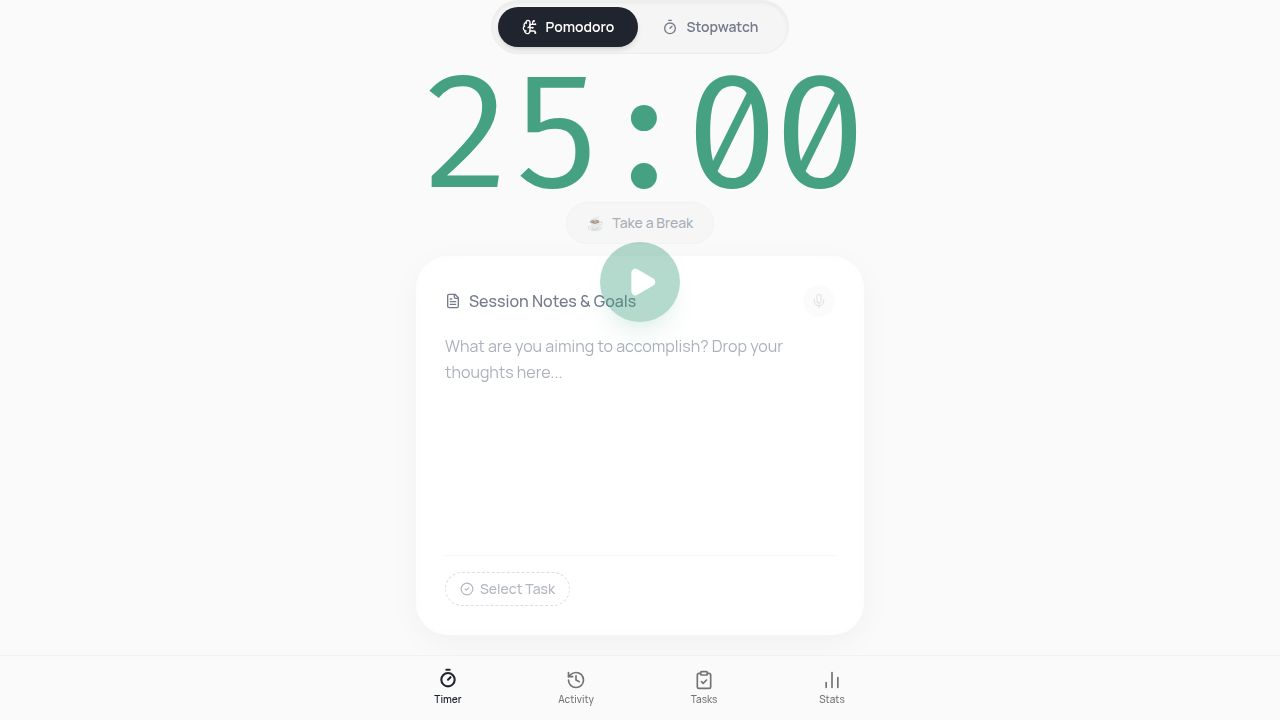
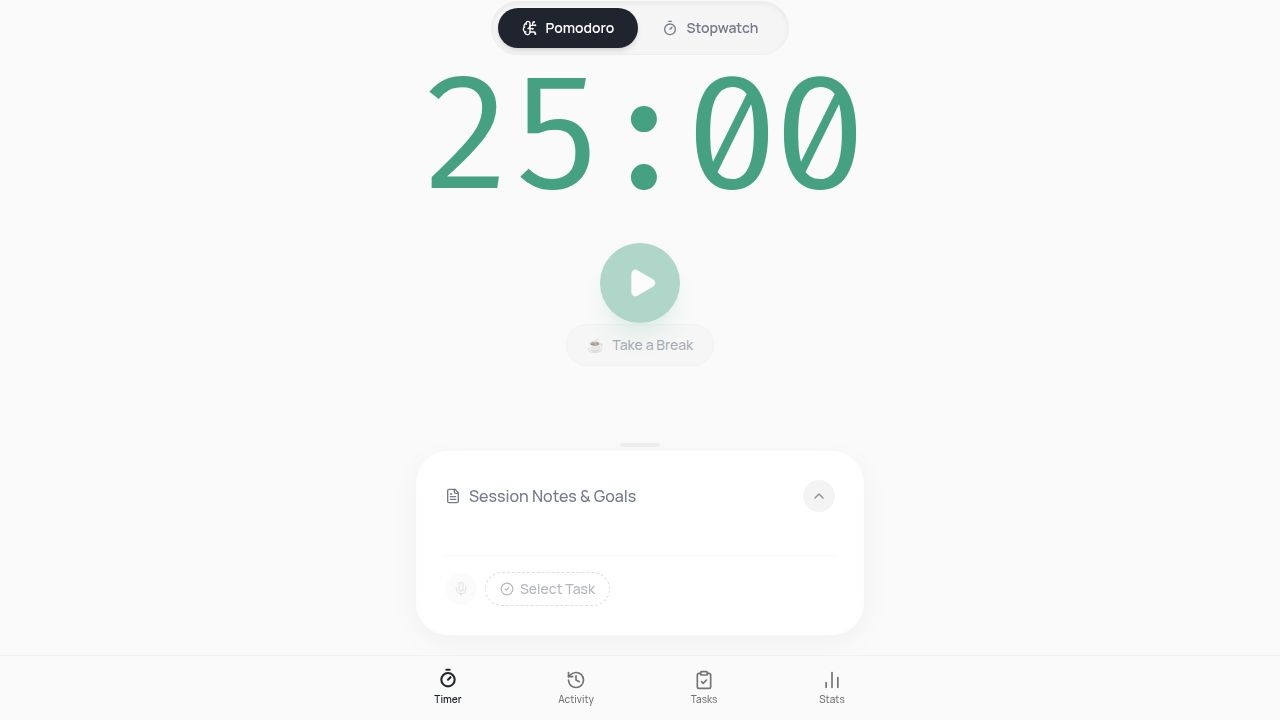
Add a draggable and expandable notes card to the timer interface
Implement a bottom sheet component for notes with drag-to-resize and tap-to-toggle functionality, including relocating the mic icon and managing overlay behavior.

Replit-Commit-Author: Agent
Replit-Commit-Session-Id: 0a6d7b57-c58f-4243-8998-62874576ba59
Replit-Commit-Checkpoint-Type: full_checkpoint
Replit-Commit-Event-Id: 730190f9-bf61-49bf-8b6f-b625b8ddf815
Replit-Commit-Screenshot-Url: https://storage.googleapis.com/screenshot-production-us-central1/e24ae2aa-6a1c-4b05-b17a-2810d80e295c/0a6d7b57-c58f-4243-8998-62874576ba59/i5WkyyO
Replit-Helium-Checkpoint-Created: true

diff --git a/artifacts/timer-app/src/pages/home.tsx b/artifacts/timer-app/src/pages/home.tsx
@@ -170,6 +170,15 @@ function Home({ restored }: { restored: RestoredSession | null }) {
   const breakDidLongPressRef   = useRef(false);
   const breakScrollTimerRef    = useRef<ReturnType<typeof setTimeout> | null>(null);
 
+  // ─── Notes card bottom-sheet drag ────────────────────────────────────────
+  const NOTES_DEFAULT_HEIGHT = 220;
+  const [notesCardHeight,  setNotesCardHeight]  = useState(NOTES_DEFAULT_HEIGHT);
+  const [notesAnimating,   setNotesAnimating]   = useState(false);
+  const notesDraggingRef       = useRef(false);
+  const notesDragStartYRef     = useRef(0);
+  const notesDragStartHeightRef = useRef(0);
+  const isNotesExpanded = notesCardHeight > NOTES_DEFAULT_HEIGHT + 60;
+
   // ─── Session logging ─────────────────────────────────────────────────────
 
   const createSession = useCreateSession({
@@ -380,6 +389,45 @@ function Home({ restored }: { restored: RestoredSession | null }) {
     if (timer.mode !== "simple") timer.setMode("simple");
     timer.start();
   }, [timer]);
+
+  // ─── Notes card drag handlers ─────────────────────────────────────────────
+
+  const handleNotesDragDown = useCallback((e: React.PointerEvent<HTMLDivElement>) => {
+    e.currentTarget.setPointerCapture(e.pointerId);
+    notesDraggingRef.current = true;
+    notesDragStartYRef.current = e.clientY;
+    notesDragStartHeightRef.current = notesCardHeight;
+    setNotesAnimating(false);
+  }, [notesCardHeight]);
+
+  const handleNotesDragMove = useCallback((e: React.PointerEvent<HTMLDivElement>) => {
+    if (!notesDraggingRef.current) return;
+    const delta = notesDragStartYRef.current - e.clientY; // drag up = positive = taller
+    const maxH = window.innerHeight - 100;
+    const newH = Math.max(200, Math.min(maxH, notesDragStartHeightRef.current + delta));
+    setNotesCardHeight(newH);
+  }, []);
+
+  const handleNotesDragUp = useCallback(() => {
+    notesDraggingRef.current = false;
+  }, []);
+
+  const handleToggleNotes = useCallback(() => {
+    setNotesAnimating(true);
+    setNotesCardHeight((h) =>
+      h > 220 + 60
+        ? 220  // collapse to default
+        : Math.round(window.innerHeight * 0.75) // expand to 75vh
+    );
+  }, []);
+
+  // Reset notes card height when navigating away from timer tab
+  useEffect(() => {
+    if (activeTab !== "timer") {
+      setNotesAnimating(false);
+      setNotesCardHeight(NOTES_DEFAULT_HEIGHT);
+    }
+  }, [activeTab, NOTES_DEFAULT_HEIGHT]);
 
   /** Save a custom break type to localStorage and immediately start it */
   const handleAddCustomBreak = useCallback((input: string) => {
@@ -612,7 +660,7 @@ function Home({ restored }: { restored: RestoredSession | null }) {
             >
               {tab === "timer" && (
                 <main className="h-full w-full px-4 sm:px-6 flex flex-col items-center">
-                  <div className="w-full max-w-md h-full flex flex-col">
+                  <div className="relative w-full max-w-md h-full flex flex-col">
 
                     {/* ── TIMER SECTION: fixed 45vh, relative so overlays anchor here ── */}
                     <div
@@ -790,29 +838,50 @@ function Home({ restored }: { restored: RestoredSession | null }) {
                       )}
                     </AnimatePresence>
 
-                    <div className="h-8 shrink-0" />
+                    {/* ── Notes bottom sheet — absolute, slides over timer ── */}
+                    <div
+                      className="absolute left-0 right-0 bottom-0 z-20 flex flex-col"
+                      style={{
+                        height: notesCardHeight,
+                        transition: notesAnimating ? "height 0.38s cubic-bezier(0.22,1,0.36,1)" : "none",
+                      }}
+                    >
+                      {/* Drag handle — grab this to resize */}
+                      <div
+                        className="flex justify-center pt-2 pb-1 shrink-0 touch-none cursor-grab active:cursor-grabbing"
+                        style={{ userSelect: "none" }}
+                        onPointerDown={handleNotesDragDown}
+                        onPointerMove={handleNotesDragMove}
+                        onPointerUp={handleNotesDragUp}
+                        onPointerCancel={handleNotesDragUp}
+                      >
+                        <div className="w-10 h-1 bg-border/60 rounded-full" />
+                      </div>
 
-                    {/* Notes / Task section — takes all remaining space, stays bounded */}
-                    <section className="flex-1 min-h-0 pb-5">
-                      <NotesArea
-                        value={notes}
-                        onChange={setNotes}
-                        selectedTask={selectedTask}
-                        onSelectTask={setSelectedTask}
-                        isSessionActive={sessionIsInProgress}
-                        isRecording={recorder.isRecording}
-                        isPaused={recorder.isPaused}
-                        clips={recorder.clips}
-                        onStartRecording={handleStartRecording}
-                        onStopRecording={recorder.stopRecording}
-                        onPauseRecording={recorder.pauseRecording}
-                        onResumeRecording={recorder.resumeRecording}
-                        onRenameClip={recorder.renameClip}
-                        onUpdateClip={recorder.updateClip}
-                        onDeleteClip={recorder.deleteClip}
-                        onCancelRecording={recorder.discardAndStop}
-                      />
-                    </section>
+                      {/* NotesArea card fills the rest */}
+                      <div className="flex-1 min-h-0 pb-5">
+                        <NotesArea
+                          value={notes}
+                          onChange={setNotes}
+                          selectedTask={selectedTask}
+                          onSelectTask={setSelectedTask}
+                          isSessionActive={sessionIsInProgress}
+                          isRecording={recorder.isRecording}
+                          isPaused={recorder.isPaused}
+                          clips={recorder.clips}
+                          onStartRecording={handleStartRecording}
+                          onStopRecording={recorder.stopRecording}
+                          onPauseRecording={recorder.pauseRecording}
+                          onResumeRecording={recorder.resumeRecording}
+                          onRenameClip={recorder.renameClip}
+                          onUpdateClip={recorder.updateClip}
+                          onDeleteClip={recorder.deleteClip}
+                          onCancelRecording={recorder.discardAndStop}
+                          onToggleExpand={handleToggleNotes}
+                          isExpanded={isNotesExpanded}
+                        />
+                      </div>
+                    </div>
 
                   </div>
                 </main>

diff --git a/artifacts/timer-app/src/components/timer/NotesArea.tsx b/artifacts/timer-app/src/components/timer/NotesArea.tsx
@@ -3,7 +3,7 @@ import WaveSurfer from "wavesurfer.js";
 import RegionsPlugin from "wavesurfer.js/plugins/regions";
 import {
   FileText, Mic, Pause, Square, X, Play, Trash2, Pencil,
-  BookmarkPlus, Repeat2, Rewind, FastForward,
+  BookmarkPlus, Repeat2, Rewind, FastForward, ChevronUp,
 } from "lucide-react";
 import { motion, AnimatePresence } from "framer-motion";
 import type { Task } from "@workspace/api-client-react/src/generated/api.schemas";
@@ -547,6 +547,8 @@ interface NotesAreaProps {
   onUpdateClip: (index: number, updates: Partial<AudioClip>) => void;
   onDeleteClip: (index: number) => void;
   onCancelRecording: () => void;
+  onToggleExpand: () => void;
+  isExpanded: boolean;
 }
 
 export function NotesArea({
@@ -566,6 +568,8 @@ export function NotesArea({
   onUpdateClip,
   onDeleteClip,
   onCancelRecording,
+  onToggleExpand,
+  isExpanded,
 }: NotesAreaProps) {
   const [showCancelConfirm,  setShowCancelConfirm]  = useState(false);
   const [editingIndex,       setEditingIndex]        = useState<number | null>(null);
@@ -628,36 +632,17 @@ export function NotesArea({
             <span>Session Notes & Goals</span>
           </div>
 
-          {/* Mic button — disabled when no active session */}
-          {!isRecording ? (
-            <motion.button
-              onClick={isSessionActive ? onStartRecording : undefined}
-              whileTap={isSessionActive ? { scale: 0.88 } : {}}
-              className={`w-8 h-8 rounded-full flex items-center justify-center transition-colors shrink-0 ${
-                isSessionActive
-                  ? "bg-foreground/[0.06] hover:bg-foreground/[0.10] text-foreground/65 hover:text-foreground/90 cursor-pointer"
-                  : "bg-foreground/[0.03] text-foreground/20 cursor-not-allowed opacity-50"
-              }`}
-              aria-label="Start voice recording"
-              title={isSessionActive ? "Record a voice note" : "Start a session to record"}
-              disabled={!isSessionActive}
-            >
-              <Mic className="w-4 h-4" />
-            </motion.button>
-          ) : (
-            /* Pulsing red dot while recording */
-            <motion.span
-              className="relative flex items-center justify-center h-5 w-5 mr-0.5 shrink-0"
-              aria-label="Recording active"
-            >
-              <motion.span
-                className="absolute inline-flex rounded-full bg-red-500"
-                style={{ width: 10, height: 10 }}
-                animate={!isPaused ? { scale: [1, 1.08, 1] } : { scale: 1 }}
-                transition={!isPaused ? { duration: 1.2, ease: "easeInOut", repeat: Infinity } : {}}
-              />
-            </motion.span>
-          )}
+          {/* Chevron toggle — tap to expand / collapse the card */}
+          <motion.button
+            onClick={onToggleExpand}
+            whileTap={{ scale: 0.88 }}
+            animate={{ rotate: isExpanded ? 180 : 0 }}
+            transition={{ duration: 0.25, ease: [0.22, 1, 0.36, 1] }}
+            className="w-8 h-8 rounded-full flex items-center justify-center bg-foreground/[0.05] hover:bg-foreground/[0.10] text-foreground/50 hover:text-foreground/80 transition-colors shrink-0"
+            aria-label={isExpanded ? "Collapse notes" : "Expand notes"}
+          >
+            <ChevronUp className="w-4 h-4" />
+          </motion.button>
         </div>
 
         {/* Inline recording controls */}
@@ -841,9 +826,40 @@ export function NotesArea({
           />
         </div>
 
-        {/* Divider + task selector — always visible at bottom of card */}
+        {/* Divider + mic + task selector — always visible at bottom of card */}
         <div className="h-px w-full bg-border/40 my-4 shrink-0" />
-        <TaskSelector selectedTask={selectedTask} onSelectTask={onSelectTask} />
+        <div className="flex items-center gap-2">
+          {/* Mic button — moved from header to here */}
+          {!isRecording ? (
+            <motion.button
+              onClick={isSessionActive ? onStartRecording : undefined}
+              whileTap={isSessionActive ? { scale: 0.88 } : {}}
+              className={`w-8 h-8 rounded-full flex items-center justify-center transition-colors shrink-0 ${
+                isSessionActive
+                  ? "bg-foreground/[0.06] hover:bg-foreground/[0.10] text-foreground/65 hover:text-foreground/90 cursor-pointer"
+                  : "bg-foreground/[0.03] text-foreground/20 cursor-not-allowed opacity-50"
+              }`}
+              aria-label="Start voice recording"
+              title={isSessionActive ? "Record a voice note" : "Start a session to record"}
+              disabled={!isSessionActive}
+            >
+              <Mic className="w-4 h-4" />
+            </motion.button>
+          ) : (
+            <motion.span
+              className="relative flex items-center justify-center h-8 w-8 shrink-0"
+              aria-label="Recording active"
+            >
+              <motion.span
+                className="absolute inline-flex rounded-full bg-red-500"
+                style={{ width: 10, height: 10 }}
+                animate={!isPaused ? { scale: [1, 1.08, 1] } : { scale: 1 }}
+                transition={!isPaused ? { duration: 1.2, ease: "easeInOut", repeat: Infinity } : {}}
+              />
+            </motion.span>
+          )}
+          <TaskSelector selectedTask={selectedTask} onSelectTask={onSelectTask} />
+        </div>
       </div>
     </div>
 
